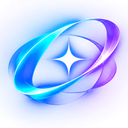
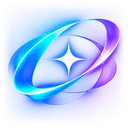
Identidad NOVA Orbital (Orden 44): el símbolo de la entrada de la app ya no deja un recuadro en el celular
El brillo de las órbitas llegaba al borde del símbolo de 128 px con alfa de hasta 37/255
y se cortaba en seco: en el celular se veía un recuadro tenue detrás. El original mide
724 de alto, así que no hay más brillo que recortar. Con la misma técnica aprobada del
ícono «maskable» (Orden 40), solo el alfa de la orilla (los últimos 70 de 724 px) se
funde a 0. Color, órbita, estrella y tamaño no cambian.

- derivar_nova_orbital.py: la regla nueva, solo para el símbolo de 128 px. Regenerado:
  los otros 27 derivados salen idénticos byte a byte.
- Medido: alfa del borde de 37 a 0; en el centro, cambio de alfa 1/255 y de color 3/255.
- frontend/public/marca y derivados: el símbolo nuevo. Inventario y README al día.

Changed region(s): [[0.0, 0.375, 0.0938, 0.625], [0.9062, 0.25, 1.0, 0.4062]]

diff --git a/marca/nova-orbital/derivar_nova_orbital.py b/marca/nova-orbital/derivar_nova_orbital.py
@@ -102,8 +102,24 @@ ts = sin_fondo(cuadro)
 err_s = error_contra_fondo(ts, cuadro)
 guardar(ts, "nova-orbital-simbolo-transparente-724.png", "derivada-aproximada",
         f"Símbolo con el fondo separado (error máx {err_s:.1f}/255 sobre #00000C). Solo para fondos oscuros", optimize=True)
-guardar(ts.resize((128, 128), Image.LANCZOS), "nova-orbital-simbolo-transparente-128.png", "derivada-aproximada",
-        "Símbolo transparente pequeño (encabezados)", optimize=True)
+# Orden 44: en la entrada de la app (celular) se veía un recuadro tenue detrás del símbolo. Causa medida: el brillo de las
+# órbitas llega al borde del cuadro de 724 con alfa de hasta 37/255 (el original mide 724 de alto: no hay más brillo que
+# recortar), así que se corta en seco en el cuadrado. Arreglo con la técnica ya aprobada del ícono «maskable» (Orden 40):
+# solo el ALFA de los últimos 70 de los 724 px se funde a 0 (suave, smoothstep). Color, órbita y estrella no cambian; el
+# cambio máximo de alfa se mide abajo. La de 724 se queda como estaba (referencia).
+_n = ts.size[0]
+_yy, _xx = np.mgrid[0:_n, 0:_n].astype(np.float64)
+_peso = np.clip(np.minimum.reduce([_xx, _yy, _n - 1 - _xx, _n - 1 - _yy]) / 70.0, 0, 1)
+_peso = _peso * _peso * (3 - 2 * _peso)
+_rgba = np.asarray(ts).astype(np.float64)
+_alfa = np.round(_rgba[..., 3] * _peso)
+cambio_alfa_simbolo = int(np.abs(_alfa - _rgba[..., 3]).max())
+_ts_fundido = np.asarray(ts).copy()
+_ts_fundido[..., 3] = np.clip(_alfa, 0, 255).astype(np.uint8)
+ts_fundido = Image.fromarray(_ts_fundido, "RGBA")
+guardar(ts_fundido.resize((128, 128), Image.LANCZOS), "nova-orbital-simbolo-transparente-128.png", "derivada-aproximada",
+        f"Símbolo transparente pequeño (entrada de la app). Orden 44: el alfa de los últimos 70 de 724 px se funde a 0 "
+        f"para que el brillo no se corte en un recuadro (cambio máx. de alfa {cambio_alfa_simbolo}/255)", optimize=True)
 # El recorte suministrado por Mario corta la órbita en el borde derecho: se guarda tal cual, solo como referencia
 guardar(SIMB, "nova-orbital-simbolo-referencia-720x565.webp", "exacta",
         "Recorte suministrado, re-codificado. La órbita toca el borde derecho: referencia, no para iconos", quality=92, method=6)

diff --git a/marca/nova-orbital/README.md b/marca/nova-orbital/README.md
@@ -66,7 +66,7 @@ No dibuja nada, ni cambia formas, colores o letras. El inventario de cada corrid
 | `nova-orbital-simbolo-cuadrado-512.webp` | 512×512 | 26 KB | Exacta | Símbolo cuadrado reescalado |
 | `nova-orbital-simbolo-cuadrado-256.webp` | 256×256 | 10 KB | Exacta | Símbolo cuadrado reescalado |
 | `nova-orbital-simbolo-transparente-724.png` | 724×724 | 723 KB | **Aproximada (revisar)** | Símbolo con el fondo separado (error máx 2.0/255 sobre #00000C). Solo para fondos oscuros |
-| `nova-orbital-simbolo-transparente-128.png` | 128×128 | 29 KB | **Aproximada (revisar)** | Símbolo transparente pequeño (encabezados) |
+| `nova-orbital-simbolo-transparente-128.png` | 128×128 | 27 KB | **Aproximada (revisar)** | Símbolo transparente pequeño (entrada de la app). Orden 44: el brillo llegaba al borde (alfa hasta 37/255) y en el celular se veía un recuadro tenue; el alfa de la orilla (70 de 724 px) se funde a 0 como en el ícono «maskable». Borde: alfa 0; centro: sin cambio visible |
 | `nova-orbital-simbolo-referencia-720x565.webp` | 720×565 | 40 KB | Exacta | Recorte suministrado, re-codificado. La órbita toca el borde derecho: referencia, no para iconos |
 | `favicon-16.png` | 16×16 | 1 KB | Exacta | Favicon: recorte cerrado del símbolo (x/y 142–582 del cuadro de 724), reescalado |
 | `favicon-32.png` | 32×32 | 2 KB | Exacta | Favicon: recorte cerrado del símbolo (x/y 142–582 del cuadro de 724), reescalado |
